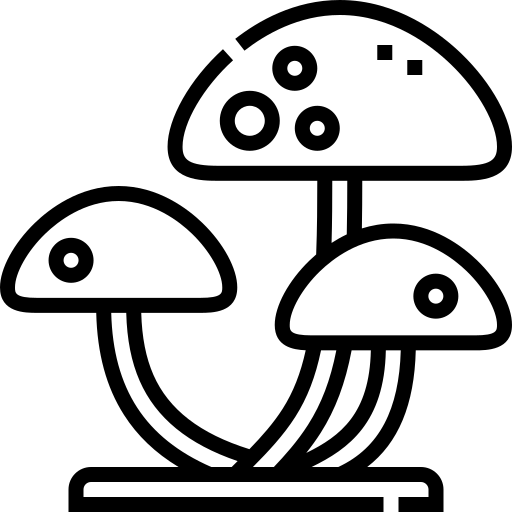
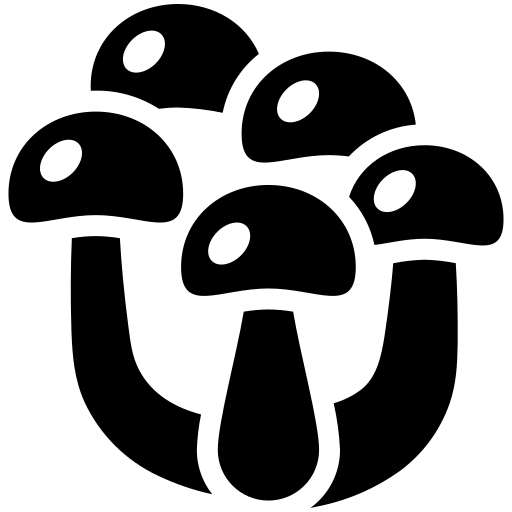
Actualización de archivos HTML, CSS e imágenes

diff --git a/script.js b/script.js
@@ -150,7 +150,10 @@ document.addEventListener('DOMContentLoaded', () => {
             bio_feat_4_li_3: "Interpretación y visualización de datos ómicos",
             bio_feat_4_li_4: "La capacitación puede impartirse en línea o presencialmente, de forma individual o grupal.",
             bio_why_title: "¿Por qué elegir Meta Scientia?",
-            bio_why_text: "Experiencia en diseño computacional de fármacos, modelado molecular y bioinformática de productos naturales. <br> Análisis listos para publicación en revistas, tesis e informes de la industria. <br> Entrega rápida, alta precisión y flujos de trabajo de proyectos personalizables. <br> Ideal para estudiantes, universidades, empresas biotecnológicas y laboratorios de investigación.",
+            bio_why_text_1: "Experiencia en diseño computacional de fármacos, modelado molecular y bioinformática de productos naturales.",
+            bio_why_text_2: "Análisis listos para publicación en revistas, tesis e informes de la industria.",
+            bio_why_text_3: "Entrega rápida, alta precisión y flujos de trabajo de proyectos personalizables.",
+            bio_why_text_4: "Ideal para estudiantes, universidades, empresas biotecnológicas y laboratorios de investigación.",
             sidebar_interested_title: "¿Interesado en este servicio?",
             sidebar_interested_text: "Contáctanos para más información y cotizaciones personalizadas.",
             sidebar_contact_btn: "Contactar",
@@ -521,7 +524,10 @@ document.addEventListener('DOMContentLoaded', () => {
             bio_feat_4_li_3: "Omics data interpretation and visualization",
             bio_feat_4_li_4: "Training can be delivered online or in-person, individually or in groups.",
             bio_why_title: "Why Choose Meta Scientia?",
-            bio_why_text: "Expertise in computational drug design, molecular modeling, and natural product bioinformatics. <br> Analyses ready for journal publication, theses, and industry reports. <br> Fast delivery, high accuracy, and customizable project workflows. <br> Ideal for students, universities, biotech companies, and research labs.",
+            bio_why_text_1: "Expertise in computational drug design, molecular modeling, and natural product bioinformatics.",
+            bio_why_text_2: "Analyses ready for journal publication, theses, and industry reports.",
+            bio_why_text_3: "Fast delivery, high accuracy, and customizable project workflows.",
+            bio_why_text_4: "Ideal for students, universities, biotech companies, and research labs.",
             sidebar_interested_title: "Interested in this service?",
             sidebar_interested_text: "Contact us for more information and personalized quotes.",
             sidebar_contact_btn: "Contact Us",

diff --git a/styles.css b/styles.css
@@ -12,7 +12,7 @@
 
 :root {
     /* Palette Mapping */
-    --primary-dark: #12251c;
+    --primary-dark: #193b2e;
     --primary-medium: #4A5D68;
     --primary-teal: #294E52;
     --primary-light: #6F7B87;
@@ -68,7 +68,7 @@ body::before {
     position: fixed;
     inset: 0;
     z-index: -1;
-    background: radial-gradient(125% 125% at 50% 10%, #fff 40%, #475569 100%);
+    background: radial-gradient(125% 125% at 50% 10%, #d0d3d4 40%, #575c64 100%);
     pointer-events: none;
     /* Ensure clicks pass through */
 }
@@ -529,6 +529,12 @@ img {
     margin-bottom: 20px;
 }
 
+.service-icon img {
+    height: 1em;
+    width: auto;
+    vertical-align: middle;
+}
+
 .service-card h3 {
     font-size: 1.3rem;
     margin-bottom: 15px;
@@ -617,6 +623,9 @@ img {
     overflow: hidden;
     box-shadow: var(--shadow-sm);
     transition: var(--transition);
+    display: flex;
+    flex-direction: column;
+    height: 100%;
 }
 
 .course-card:hover {
@@ -627,8 +636,22 @@ img {
 .course-header {
     background: var(--primary-teal);
     color: var(--white);
-    padding: 20px;
+    padding: 30px 20px;
     position: relative;
+    flex: 0 0 auto;
+    min-height: px;
+    display: flex;
+    align-items: center;
+    justify-content: center;
+    text-align: center;
+}
+
+.course-header h4 {
+    color: var(--white);
+    margin: 0;
+    width: 100%;
+    font-size: .9rem;
+    line-height: 1.4;
 }
 
 .badge {
@@ -795,6 +818,26 @@ img {
 
 .contact-item div {
     text-align: left;
+}
+
+/* MASKED ICONS UTILITIES */
+.icon-mask {
+    display: inline-block;
+    width: 1em;
+    height: 1em;
+    background-color: currentColor;
+    -webkit-mask-size: contain;
+    mask-size: contain;
+    -webkit-mask-position: center;
+    mask-position: center;
+    -webkit-mask-repeat: no-repeat;
+    mask-repeat: no-repeat;
+    vertical-align: middle;
+}
+
+.icon-mushroom {
+    -webkit-mask-image: url('./images/mushroom.png');
+    mask-image: url('./images/mushroom.png');
 }
 
 .contact-label {

diff --git a/bioinformatics.html b/bioinformatics.html
@@ -162,10 +162,14 @@
                     </ul>
 
                     <h3 data-i18n="bio_why_title">¿Por qué elegir Meta Scientia?</h3>
-                    <p data-i18n="bio_why_text">Experiencia en diseño computacional de fármacos, modelado molecular y
-                        bioinformática de productos naturales. <br> Análisis listos para publicación en revistas, tesis
-                        e informes industriales. <br> Entrega rápida, alta precisión y flujos de trabajo de proyectos
-                        personalizables. <br> Ideal para estudiantes, universidades, empresas de biotecnología y
+
+                    <p data-i18n="bio_why_text_1">Experiencia en diseño computacional de fármacos, modelado molecular y
+                        bioinformática de productos naturales.</p>
+                    <p data-i18n="bio_why_text_2"> Análisis listos para publicación en revistas, tesis e informes
+                        industriales.</p>
+                    <p data-i18n="bio_why_text_3"> Entrega rápida, alta precisión y flujos de trabajo de proyectos
+                        personalizables.</p>
+                    <p data-i18n="bio_why_text_4"> Ideal para estudiantes, universidades, empresas de biotecnología y
                         laboratorios de investigación.</p>
 
                 </div>

diff --git a/index.html b/index.html
@@ -168,7 +168,7 @@
                 </div>
                 <!-- Service 2 -->
                 <div class="service-card">
-                    <div class="service-icon"><i class="fas fa-mushroom"></i></div>
+                    <div class="service-icon"><span class="icon-mask icon-mushroom"></span></div>
                     <h3 data-i18n="service_2_title">Producción de hongos</h3>
                     <p data-i18n="service_2_desc">Capacitación y consultoría para el cultivo industrial y artesanal de
                         hongos.</p>
@@ -438,7 +438,7 @@
             scale: 1.00,
             scaleMobile: 1.00,
 
-            /* 🔥 COLORES OSCUROS PARA MEJOR CONTRASTE 🔥 */
+            /* COLORES OSCUROS PARA MEJOR CONTRASTE */
             color1: 0x143058,  // Azul muy oscuro
             color2: 0x1f4d2c,  // Verde muy oscuro
 

diff --git a/mushroom-production.html b/mushroom-production.html
@@ -54,7 +54,7 @@
         <div class="container">
             <div class="service-hero-content">
                 <div class="service-icon-large">
-                    <i class="fas fa-mushroom"></i>
+                    <span class="icon-mask icon-mushroom"></span>
                 </div>
                 <h1 data-i18n="mush_title">Mushroom Production</h1>
                 <p class="service-tagline" data-i18n="mush_tagline">Capacitación y consultoría para el cultivo

diff --git a/international.css b/international.css
@@ -137,7 +137,8 @@ ul {
     margin: 0 auto;
 }
 
-.service-icon-large i {
+.service-icon-large i,
+.service-icon-large .icon-mask {
     font-size: 4rem;
     color: rgba(255, 255, 255, 0.9);
     margin-bottom: 1.5rem;
